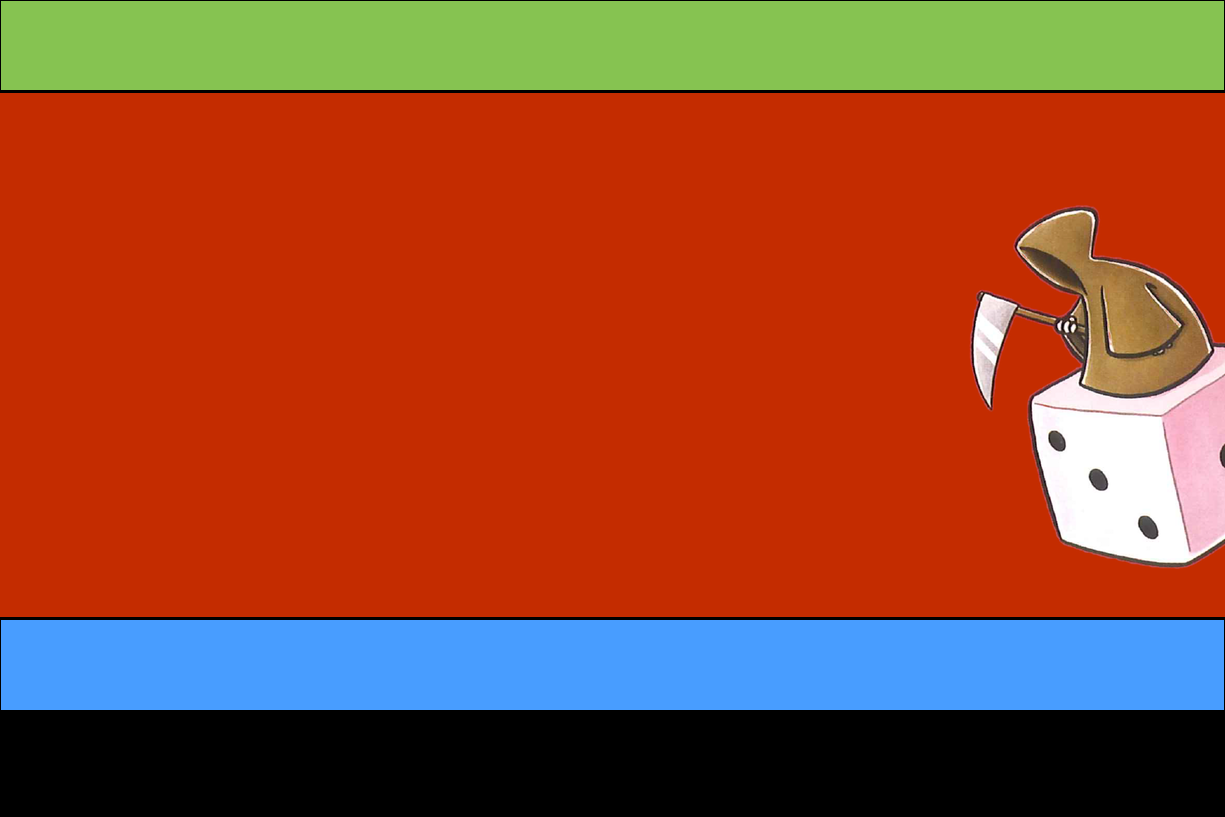
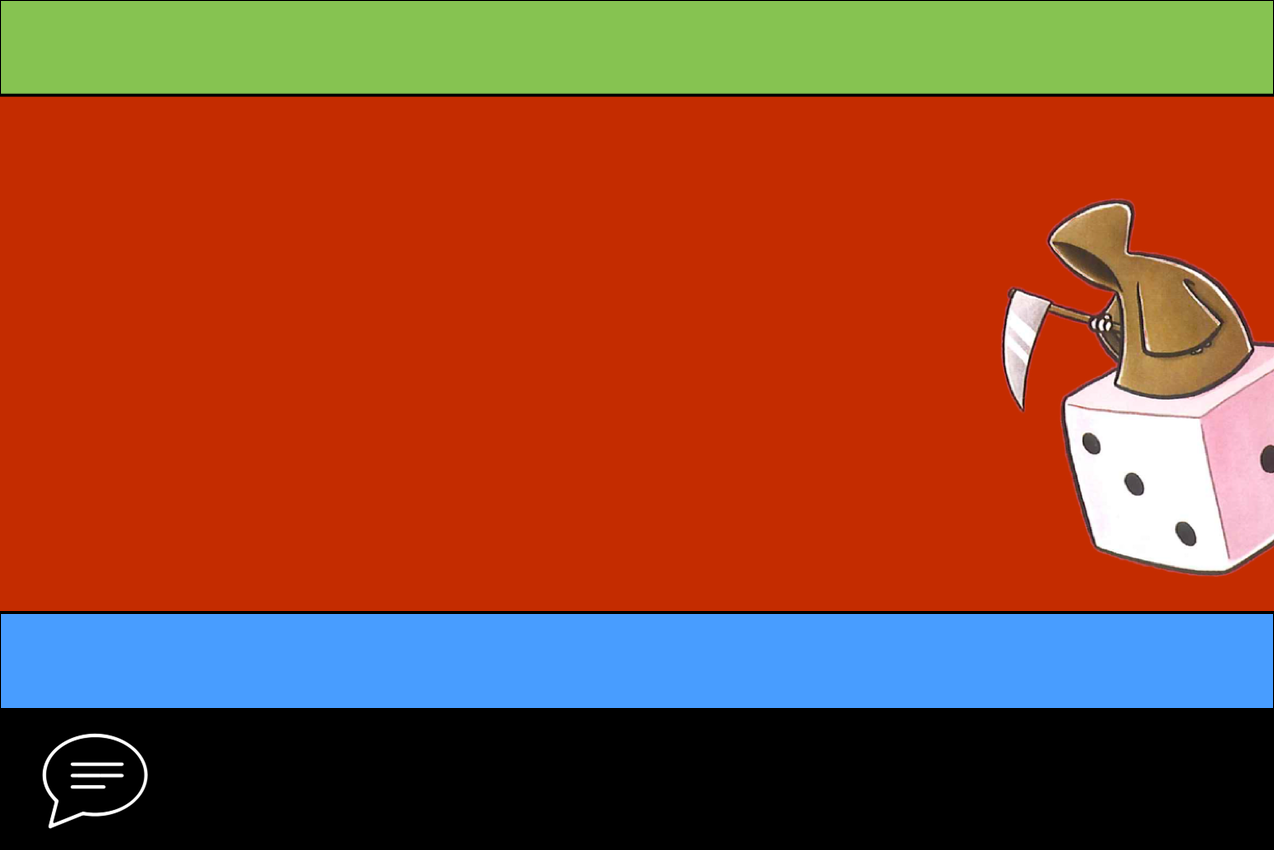
adjusted chat window

diff --git a/src/client/ClientView.java b/src/client/ClientView.java
@@ -407,7 +407,7 @@ public class ClientView {
 		turnPL2.setVisible(false);
 		
 		//Scene Game
-		sceneGame = new Scene(topPaneGame, 1200, 800);
+		sceneGame = new Scene(topPaneGame, 1200, 850);
 		sceneGame.getStylesheets().add("ClientStylesheet");
 		
 		
@@ -501,8 +501,8 @@ public class ClientView {
 		//Chat
 		
 		chatWindow = new TextArea();
-		chatWindow.setMinSize(200, 50);
-		chatWindow.setMaxSize(800, 50);
+		chatWindow.setMinSize(200, 90);
+		chatWindow.setMaxSize(800, 90);
 		chatWindow.setText("");
 		
 		chatWindow.setEditable(false);
